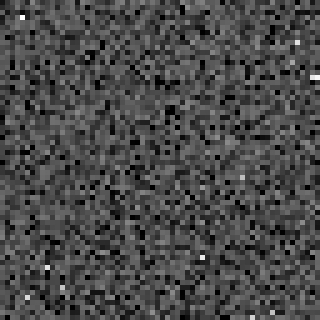
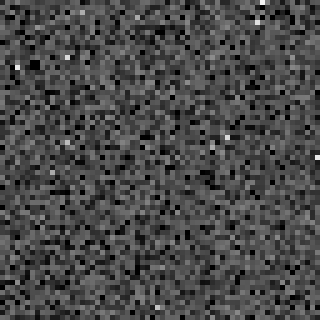
Revise Darks page: clearer hot-pixel region, dark piece, no removed tile
Owner review of the first Darks page asked for four changes, all made
in Figma (P3 Darks, frames A and B) and in the asset generator:

- The image beside the illustration is now a 376x252 native-pixel
  piece of the master dark, stretched on its own statistics, so the
  learner sees the dark's grain and hot pixels rather than another
  enlarged 64x64 patch.
- The enlarged 64x64 light-frame patch moved to the left of "The
  problem you can see" with its explanation, and the old-camera
  amp-glow dark sits to its right with a label and caption. The
  separate amp-glow section is gone.
- The Try-it has only Raw and Computed tiles. The owner wants the
  learner to compare by eye, so "What was removed" was dropped for
  this page (design-notes section 5, item 13).
- The region is now chosen for the clearest removal. Only 19 hot
  pixels in the whole frame fall back into the noise after the
  as-supplied master dark is subtracted (the lights were warmer), so
  the generator ranks 64x64 sky-only windows by how many of those
  they hold, then by shared hot pixels, and centres on one. That
  pixel (2,071 before, 945 after, background 820) is circled on both
  tiles with an ochre ring; the others visibly dim.

Regenerated: uv run tools/assets/darks_page.py

Claude-Session: https://claude.ai/code/session_014JtdgbjBxPEXRcQzY3Foaz

diff --git a/tools/assets/darks_page.py b/tools/assets/darks_page.py
@@ -7,14 +7,16 @@ light frame, enlarged so single pixels are visible (nearest-neighbour, no binnin
 region of the master dark. The bias is applied to every light-frame image on this page because the
 Bias lesson already covered it; the Darks page never mentions it.
 
-Region choice: the 64×64 window with the most hot pixels shared by the light and the master dark,
-among windows that hold only sky background (no stars) and no pixel that is hotter in the dark than in
-the light (a few such defective pixels exist and would print as black dots). The master dark is used
-exactly as supplied (owner decision 2026-09-24: "trust the master dark").
+Region choice: the master dark is used exactly as supplied (owner decision 2026-09-24: "trust the
+master dark"). It cancels most hot pixels only partly, so the window is chosen for the clearest removal:
+among 64×64 sky-only windows (no stars, no pixel hotter in the dark than in the light) it holds the most
+"well removed" hot pixels (clearly visible before, within the noise after), then the most shared hot
+pixels. One well-removed pixel is circled on the page; its position is in stats.json.
 
 Reading column:
   grain_light.png     (L − B) on the region, one AutoSTF (target bg 0.30, clip −1.8 MADN), enlarged ×5
-  grain_dark.png      the master dark on the same region, its own AutoSTF, enlarged ×5
+  dark_piece.png      a 376×252 native-pixel piece of the master dark around the region, stretched hard
+                      (its own AutoSTF) so its grain and hot pixels show
   ampglow_full.png    the old-camera dark (ASI294MM Pro, 600 s), binned 2×2, AutoSTF (target bg 0.30,
                       clip −2.8 MADN). Display only: it shows amplifier glow; it is never applied.
 
@@ -22,9 +24,6 @@ Try it (same region, same enlargement, one STF shared by raw and computed):
   roi_raw.png                 L − B
   roi_computed_dark-off.png   identical to raw (nothing else happens with the dark off)
   roi_computed_dark-on.png    L − D   (the dark carries the bias, so B is not subtracted again)
-  roi_removed.png             computed − raw = B − D centred on mid grey (darker = brightness removed),
-                              shown in every toggle state; the span is ±2 MADN of the raw crop, so the
-                              learner's own noise level sets the scale and hot pixels print as black
 
   stats.json                  region position, hot-pixel counts and values, medians, every stretch used
 
@@ -51,7 +50,7 @@ FRAME = "f03"
 DN = 65535.0
 ROI = 64          # native pixels, square
 ZOOM = 5          # nearest-neighbour enlargement for the page (64 × 5 = 320 px)
-BORDER = 256      # keep the window away from the frame edge
+BORDER = 64       # keep the window away from the frame edge
 ROI_STF = dict(target_bg=0.30, shadows_clip=-1.8)
 FRAME_STF = dict(target_bg=0.30, shadows_clip=-2.8)
 HOT_DN = 200.0    # a hot pixel: dark − bias above this many pixel-brightness units (65535 = full scale)
@@ -101,31 +100,37 @@ def main() -> None:
     star = bright & (nb >= 4)
     dark_only = hot & ((lb - sky_med) < 0.5 * dark_excess)
     shared = hot & bright & ~star
-    score = np.where((box_sum(star, ROI) == 0) & (box_sum(dark_only, ROI) == 0), box_sum(shared, ROI), -1)
+    good = shared & (lb - sky_med > 12 * sky_madn) & (np.abs((L - D) - sky_med) < 2 * sky_madn)
+    ok = (box_sum(star, ROI) == 0) & (box_sum(dark_only, ROI) == 0)
+    score = np.where(ok, box_sum(good, ROI) * 1000 + box_sum(shared, ROI), -1)
     score[:BORDER] = -1
     score[-BORDER:] = -1
     score[:, :BORDER] = -1
     score[:, -BORDER:] = -1
-    y0, x0 = np.unravel_index(int(np.argmax(score)), score.shape)
+    # among the best windows, take the one whose centre is closest to a well-removed pixel
+    cands = np.argwhere(score == score.max())
+    gy, gx = np.where(good)
+    y0, x0 = min((tuple(c) for c in cands),
+                 key=lambda c: np.min((gy - (c[0] + ROI / 2)) ** 2 + (gx - (c[1] + ROI / 2)) ** 2))
     ys, xs = slice(y0, y0 + ROI), slice(x0, x0 + ROI)
 
     raw = lb[ys, xs]                     # L − B
     computed_on = (L - D)[ys, xs]        # L − D
-    removed = computed_on - raw          # = B − D  (≤ 0 at hot pixels)
     stf = astro.auto_stf(raw[None].astype(np.float32), **ROI_STF)
     show = lambda img: enlarge(astro.apply_stf(np.clip(img, 0, 1)[None].astype(np.float32), stf)[0], ZOOM)
 
     save_gray(show(raw), OUT / "roi_raw.png")
     save_gray(show(raw), OUT / "roi_computed_dark-off.png")
     save_gray(show(computed_on), OUT / "roi_computed_dark-on.png")
-    span = 2 * madn(raw)
-    save_gray(enlarge(np.clip(0.5 + removed / (2 * span), 0, 1), ZOOM), OUT / "roi_removed.png")
     save_gray(show(raw), OUT / "grain_light.png")
 
-    dark_roi = D[ys, xs]
-    stf_dark = astro.auto_stf(dark_roi[None].astype(np.float32), **ROI_STF)
-    save_gray(enlarge(astro.apply_stf(np.clip(dark_roi, 0, 1)[None].astype(np.float32), stf_dark)[0], ZOOM),
-              OUT / "grain_dark.png")
+    # a native-resolution piece of the master dark around the region, stretched on its own statistics
+    PW, PH = 376, 252
+    py0 = int(np.clip(y0 + ROI // 2 - PH // 2, 0, H - PH))
+    px0 = int(np.clip(x0 + ROI // 2 - PW // 2, 0, W - PW))
+    dark_piece = D[py0:py0 + PH, px0:px0 + PW]
+    stf_dark = astro.auto_stf(dark_piece[None].astype(np.float32), **ROI_STF)
+    save_gray(astro.apply_stf(np.clip(dark_piece, 0, 1)[None].astype(np.float32), stf_dark)[0], OUT / "dark_piece.png")
 
     # ---- the old-camera dark: amplifier glow, display only ----
     old, old_hdr = astro.load(CAL / "darkFromOlderCamera.fits")
@@ -142,22 +147,25 @@ def main() -> None:
 
     hot_roi = hot[ys, xs]
     shared_roi = shared[ys, xs]
-    brightest = np.unravel_index(int(np.argmax(np.where(shared_roi, raw, -1))), (ROI, ROI))
+    good_roi = good[ys, xs]
+    brightest = np.unravel_index(int(np.argmax(np.where(good_roi, raw, -1))), (ROI, ROI))
     ratio = dark_excess[shared] / (lb[shared] - sky_med)
     stats = {
         "frame": FRAME,
         "bias_applied_to_every_light_image": True,
         "region": {"x": int(x0), "y": int(y0), "w": ROI, "h": ROI, "zoom": ZOOM,
-                   "chosen_by": "most hot pixels shared by light and dark among 64×64 sky-only windows"},
+                   "chosen_by": "most well-removed, then most shared hot pixels among 64×64 sky-only windows; centred on a well-removed pixel"},
         "hot_pixel_definition": {"dark_minus_bias_above_dn": HOT_DN,
                                  "light_minus_bias_above_background_madn": 10},
-        "hot_pixels_in_region": {"in_dark": int(hot_roi.sum()), "shared_with_light": int(shared_roi.sum())},
+        "hot_pixels_in_region": {"in_dark": int(hot_roi.sum()), "shared_with_light": int(shared_roi.sum()),
+                                 "well_removed": int(good_roi.sum())},
+        "well_removed_definition": "light − bias above background by > 12 MADN, and light − dark within ±2 MADN of it",
         "hot_pixels_in_frame": {"in_dark": int(hot.sum()), "shared_with_light": int(shared.sum())},
         "dark_over_light_excess_ratio_percentiles": {
             "p10": float(np.percentile(ratio, 10)), "p50": float(np.percentile(ratio, 50)),
             "p90": float(np.percentile(ratio, 90))},
         "residual_after_dark_madn_median": float(np.median(((L - D)[shared] - sky_med)) / sky_madn),
-        "brightest_hot_pixel": {
+        "circled_hot_pixel": {
             "x_in_region": int(brightest[1]), "y_in_region": int(brightest[0]),
             "raw_dn": float(raw[brightest] * DN),
             "computed_dark_on_dn": float(computed_on[brightest] * DN),
@@ -176,8 +184,8 @@ def main() -> None:
         },
         "stretches": {
             "roi": {"c0": stf[0][0], "m": stf[0][1], **ROI_STF},
-            "grain_dark": {"c0": stf_dark[0][0], "m": stf_dark[0][1], **ROI_STF},
-            "removed_dn": {"grey": 0.0, "span": span * DN},
+            "dark_piece": {"c0": stf_dark[0][0], "m": stf_dark[0][1], **ROI_STF,
+                           "crop": {"x": int(px0), "y": int(py0), "w": PW, "h": PH}},
             "ampglow": {"c0": stf_old[0][0], "m": stf_old[0][1], **FRAME_STF, "binning": 2},
         },
         "old_camera_dark": {
